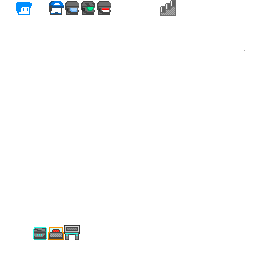
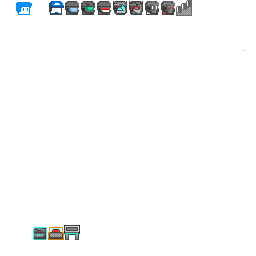
Added new enemy sprite.

Changed region(s): [[0.4375, 0.0, 0.75, 0.0625]]

diff --git a/entity_factory.py b/entity_factory.py
@@ -101,7 +101,7 @@ crew = Actor(
     item_drop_chance = 0.16
     )
 error_clone01 = Actor(
-    char="1", 
+    char="○", 
     color=(255, 255, 255), 
     name="error_clone001", 
     ai_class=HostileEnemy,equipment=Equipment(weapon=dagger, armor=chain_mail),
@@ -111,7 +111,7 @@ error_clone01 = Actor(
     item_drop_chance = 0.32
     )
 error_clone02 = Actor(
-    char="2", 
+    char="◙", 
     color=(255, 255, 255), 
     name="error_clone002", 
     ai_class=HostileEnemy,equipment=Equipment(weapon=sword, armor=leather_armor), 
@@ -121,7 +121,7 @@ error_clone02 = Actor(
     item_drop_chance = 0.32
     )
 human_kimera = Actor(
-    char="A",
+    char="•",
     color=(255, 255, 255),
     name="human_kimera",
     ai_class=HostileEnemy,equipment=Equipment(weapon=sword, armor=leather_armor),
@@ -131,7 +131,7 @@ human_kimera = Actor(
     item_drop_chance= 0.3
     )
 material_kimera = Actor(
-    char="B",
+    char="◘",
     color=(255, 255, 255),
     name="material_kimera",
     ai_class=HostileEnemy,equipment=Equipment(weapon=dagger),

diff --git a/tile_types.py b/tile_types.py
@@ -54,8 +54,8 @@ wall2 = new_tile(
 up_stairs = new_tile(
     walkable=True,
     transparent=True,
-    dark=(ord("◙"), (50, 50, 50), (0, 0, 0)),
-    light=(ord("◙"), (255, 255, 255), (0, 0, 0)),
+    dark=(ord("♂"), (50, 50, 50), (0, 0, 0)),
+    light=(ord("♂"), (255, 255, 255), (0, 0, 0)),
 )
 end_switch = new_tile(
     walkable=True,
